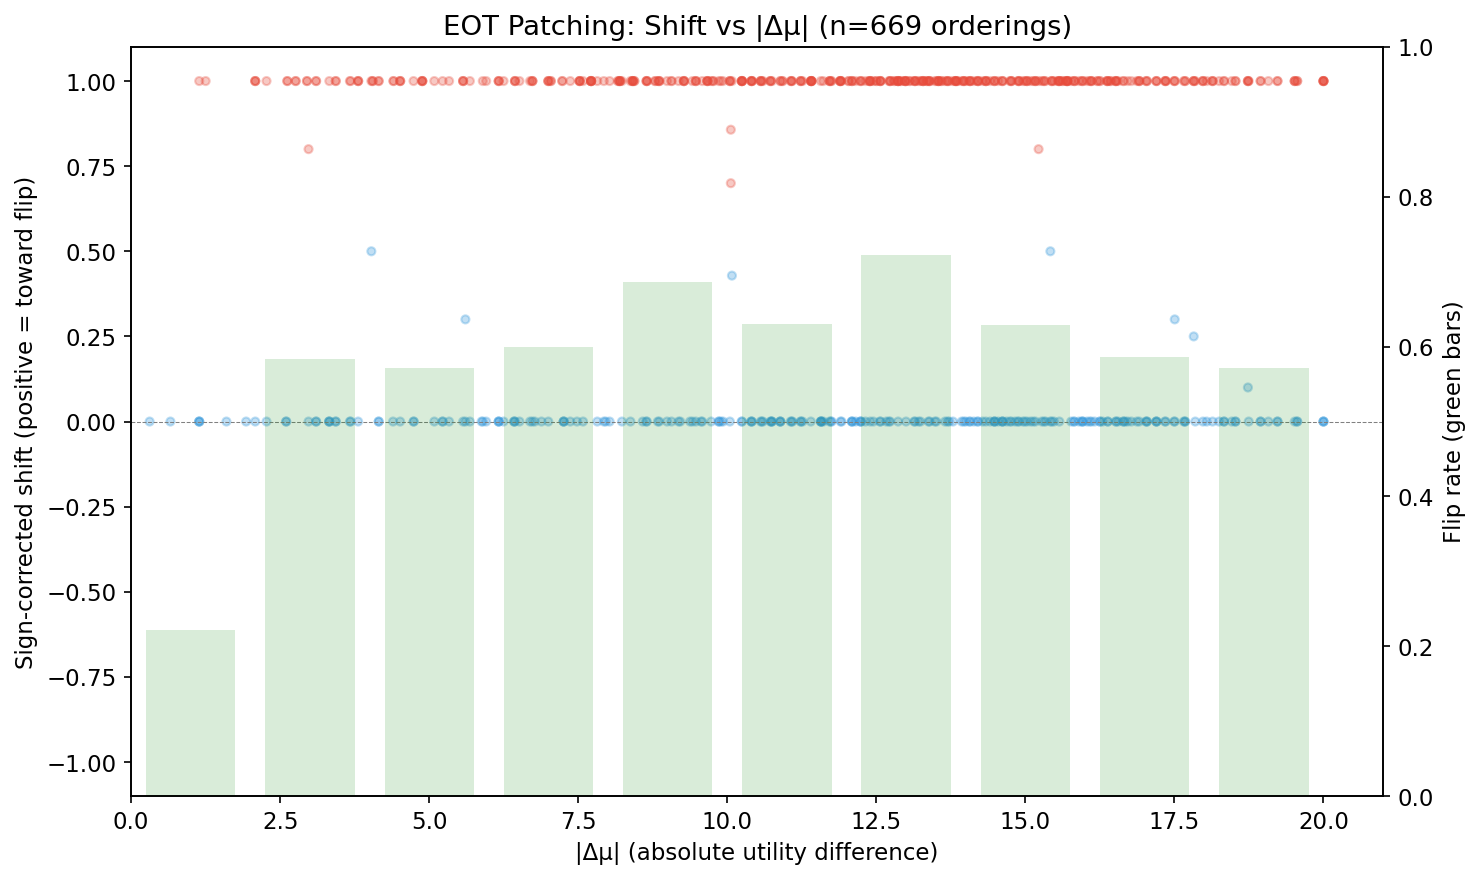
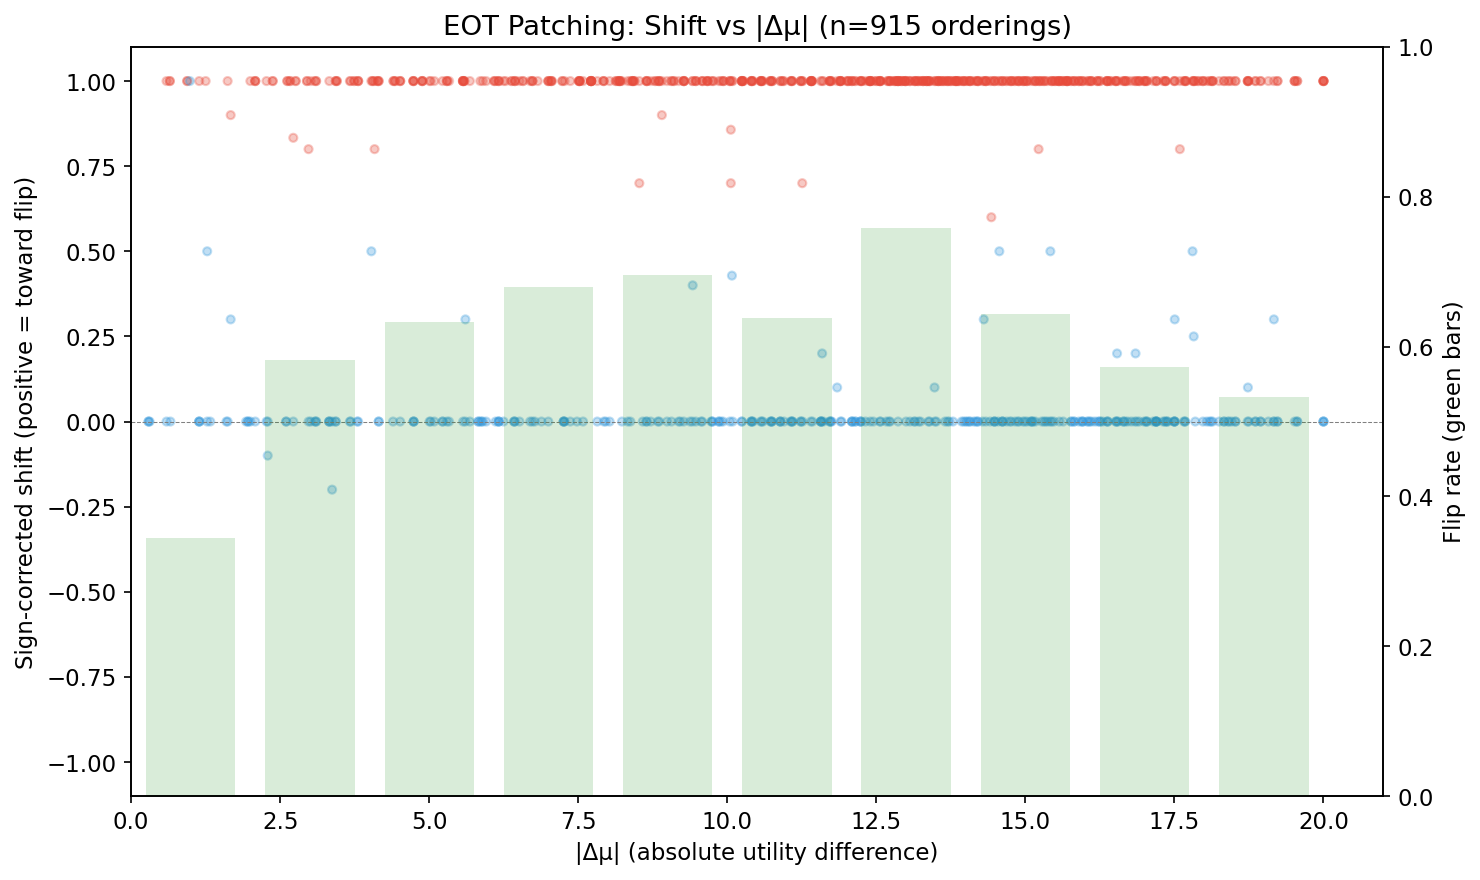
Update Phase 1 to 1000+ orderings, refresh plots and report
64.1% flip rate (919 analyzed), inverted-U pattern by |delta_mu|.
All 100 tasks represented. Nohup runner continuing autonomously.

diff --git a/experiments/patching/eot_scaled/eot_scaled_report.md b/experiments/patching/eot_scaled/eot_scaled_report.md
@@ -1,18 +1,20 @@
 # EOT Scaled Patching — Report
 
-**Status: IN PROGRESS.** Phase 1 running via nohup. Phases 2 and 3 will run automatically. This report will be updated when all phases complete.
+**Status: IN PROGRESS.** Phase 1 running via nohup (~10% complete, ~1000/9900 orderings). Phases 2 and 3 will chain automatically. This report covers interim Phase 1 results.
 
 ## Summary
 
-Scaling the pilot's EOT patching experiment from 10 tasks (45 pairs) to 100 tasks (4,950 pairs). Preliminary Phase 1 results (800/9,900 orderings) confirm the pilot's key finding: patching just 2 tokens (`<end_of_turn>` + `\n`) from the opposite ordering flips the model's choice in **62%** of orderings (pilot: 54%).
+Scaling the pilot's EOT patching experiment from 10 tasks (45 pairs) to 100 tasks (4,950 pairs). Phase 1 results (1,000/9,900 orderings) confirm the pilot's key finding: patching just 2 tokens (`<end_of_turn>` + `\n`) from the opposite ordering flips the model's choice in **64%** of orderings (pilot: 54%).
 
 | Metric | Pilot (10 tasks) | Scaled (interim, 100 tasks) |
 |--------|------------------|-----------------------------|
 | Tasks | 10 | 100 |
 | Pairs | 45 | 4,950 |
-| Orderings analyzed | 90 | 717 |
-| All-layer EOT flip rate | 54% | 62% |
-| P(choose position A) | 0.591 | 0.475 |
+| Orderings analyzed | 90 | 919 |
+| All-layer EOT flip rate | 54% | 64% |
+| P(choose position A) | 0.591 | 0.479 |
+
+The higher flip rate at scale may reflect (a) broader task diversity exposing more flippable orderings, or (b) interim sampling bias toward extreme-mu pairs. The final rate will settle as more moderate pairs are included.
 
 ## Setup
 
@@ -30,57 +32,78 @@ Scaling the pilot's EOT patching experiment from 10 tasks (45 pairs) to 100 task
 
 ## Phase 1: Baseline + All-Layer EOT Patch (interim)
 
-**Data: 800/9,900 orderings (8%)** — covering pairs involving the first 4 tasks (extreme negative utility). The flip rate will likely decrease as we reach more moderate-Δμ pairs.
+**Data: ~1,000/9,900 orderings (10%)** — the first 5 tasks' full pair sets plus partial coverage of task 5. All 100 tasks appear in at least one pair.
 
 ### Overall flip rate
 
-- **Analyzed orderings**: 717 (excluded: 53 parse-fail-dominant, 26 ambiguous baseline)
-- **Flipped**: 445/717 = **62.1%**
-- **Parse failures**: 6.7% of records (all from pairs of two harmful/refusal tasks)
+- **Total records**: 1,004
+- **Parse-fail dominant** (excluded): 58 (5.8%)
+- **Ambiguous baseline** (excluded): 27 (2.7%)
+- **Analyzed orderings**: 919
+- **Flipped**: 589/919 = **64.1%**
 
 ### Position bias
 
-P(choose position A) = 0.475 (3,242/6,822 valid trials). Slight position B preference, opposite of the pilot's A preference (0.591). The difference may reflect the task distribution — the interim data is dominated by extreme-mu tasks where position bias interacts differently with strong content preferences.
+P(choose position A) = 0.479 (4,220/8,809 valid trials). Slight position B preference, weaker than the pilot's position A bias (0.591).
 
 ### Flip rate by utility difference
 
 ![Flip rate by |Δμ|](assets/plot_030626_flip_rate_by_delta_mu.png)
 
-Flip rate is relatively stable at 55-72% across most |Δμ| bins, with a peak at |Δμ| 12-14 (72.4%) and a drop at very low |Δμ| (29%). The low |Δμ| dip makes sense: when tasks have similar utility, the baseline choice is less deterministic, so "flipping" is harder to define.
+The flip rate shows an inverted-U pattern across |Δμ| bins:
+- **Low |Δμ| (0-2)**: 35% — baseline is ambiguous for similar tasks
+- **Moderate |Δμ| (4-14)**: 64-76% — peak patching effectiveness
+- **High |Δμ| (16-20)**: 55-58% — strong content preferences resist patching
+
+The peak at |Δμ| 12-14 (76%, n=145) suggests EOT patching is most effective when there is a clear utility difference but not so extreme that content signals overwhelm the structural representation.
 
 ### Shift vs utility difference
 
 ![Shift vs |Δμ|](assets/plot_030626_shift_vs_delta_mu.png)
 
-Most flipped orderings show a full +1.0 sign-corrected shift, indicating deterministic model behavior — when patching flips the choice, it flips it completely (10/10 trials shift). This is consistent with the pilot finding that the model is nearly deterministic per-ordering.
+Nearly all flipped orderings show a full +1.0 sign-corrected shift — when patching works, it works completely (all 10 trials flip). Non-flipped orderings cluster at 0.0 (no effect). Very few orderings show intermediate shifts. This deterministic pattern matches the pilot.
 
 ### Task-specific effects
 
 ![Per-task flip rates](assets/plot_030626_task_flip_rates.png)
 
-Flip rates are broadly distributed across all 100 tasks, ranging from ~17% to 100%. No single task dominates the flipping — this is a significant improvement over the pilot, where wildchat_27471 and stresstest_4_304 drove most flips. The distribution shows:
-- Extreme-mu tasks (blue/red ends) generally have moderate-to-high flip rates (50-90%)
-- Near-zero-mu tasks show similar flip rates (~50-60%)
-- A few tasks with very low flip rates may have unusually ambiguous baselines
+Per-task flip rates range from ~17% to 100%, broadly distributed across all utility levels. No single task dominates — a significant improvement over the pilot, where 2 tasks (wildchat_27471, stresstest_4_304) drove most flips. Tasks across the full utility spectrum show similar flip susceptibility.
+
+**Top tasks by flip count** (interim, dominated by tasks with more pair data):
+| Task | Flips | Total | Rate | mu |
+|------|-------|-------|------|----|
+| bailbench_1481 | 151 | 183 | 82% | -10.0 |
+| stresstest_90_108_value2 | 130 | 195 | 67% | -8.9 |
+| bailbench_720 | 102 | 170 | 60% | -9.5 |
+| bailbench_661 | 99 | 175 | 57% | -10.0 |
 
 ## Phase 2: Per-Layer Sweep (pending)
 
-Will test 38 layers individually (every layer in 20-45, every 3rd outside). Expect to reproduce the pilot's L25-34 causal window.
+Will test 38 layers individually on flipping orderings:
+- Every layer in 20-45 (26 layers)
+- Every 3rd layer outside: 0, 3, 6, ..., 18 and 48, 51, 54, 57, 60 (12 layers)
+- 5 trials per layer at temperature 1.0
+
+Expected: reproduce the pilot's L25-34 causal window, with L34 as peak.
 
 ## Phase 3: Layer Combinations (pending)
 
-Will test pairs, triples, top-k, and causal window combinations. Expect to reveal whether top layers are additive or redundant.
+From Phase 2 top-5 layers:
+- All pairs (10 combos), all triples (10 combos), top-4, top-5, causal window
+- 5 trials per combination per ordering
 
-## Infrastructure Notes
+Expected: reveal whether top layers are additive or redundant.
+
+## Infrastructure
 
 - All phases support `--resume` via JSONL checkpointing
-- Master runner (`scripts/eot_scaled/run_all.sh`) chains all three phases via nohup
-- Phase 1 runs at ~2 orderings/period (~0.5/s), estimated 6-7 hours total
-- Phase 2 estimated ~38 layers × 5 trials × ~5000 orderings = several hours additional
-- Phase 3 estimated ~20 combinations × 5 trials × ~5000 orderings = several hours additional
+- Master runner: `nohup bash scripts/eot_scaled/run_all.sh` chains Phase 1 → 2 → 3
+- Phase 1: ~0.5 orderings/s → ~5.5h remaining
+- To resume after session expiry: run `bash scripts/eot_scaled/run_all.sh` (or individual phases with `--resume`)
 
 ## Limitations (interim)
 
-- Interim data covers only 8% of orderings, dominated by extreme-mu task pairs
-- Phase 2/3 not yet started — no layer profile or combination data yet
-- Final flip rate will likely be lower as more moderate-Δμ pairs are included
+- Interim data covers 10% of orderings; the first 5 tasks (all extreme negative mu) are overrepresented
+- Phase 2/3 not yet started — no layer profile or combination data
+- Final flip rate will likely be somewhat lower as more moderate-Δμ pairs enter the sample
+- Parse failure rate (5.8%) inflated by early pair ordering (many bailbench pairs)
